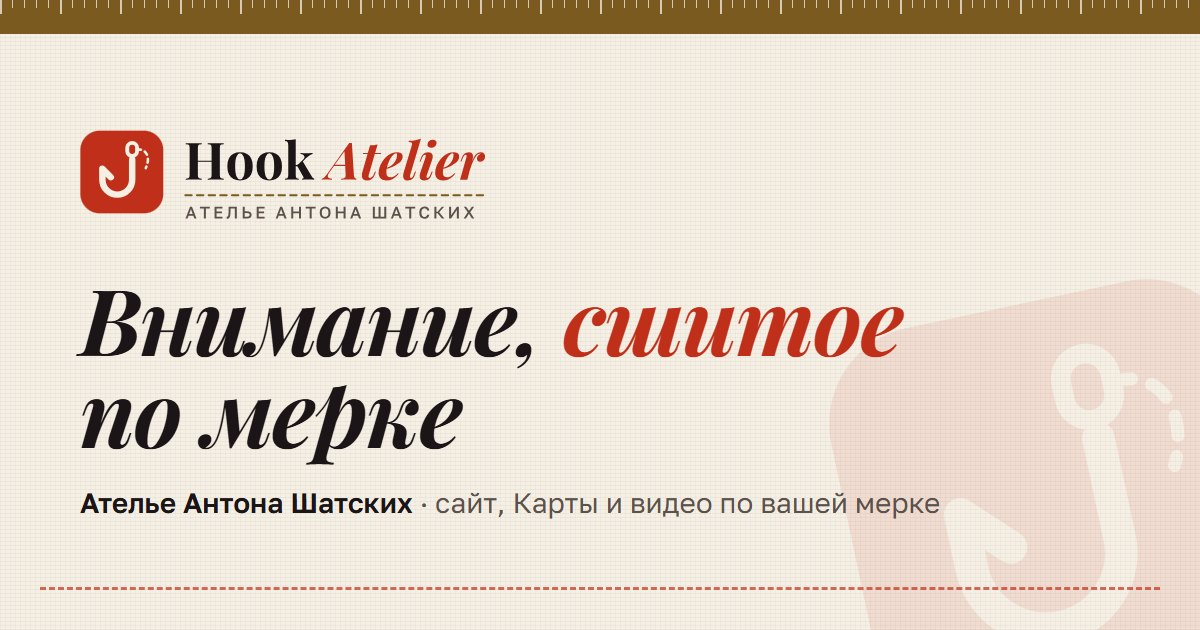
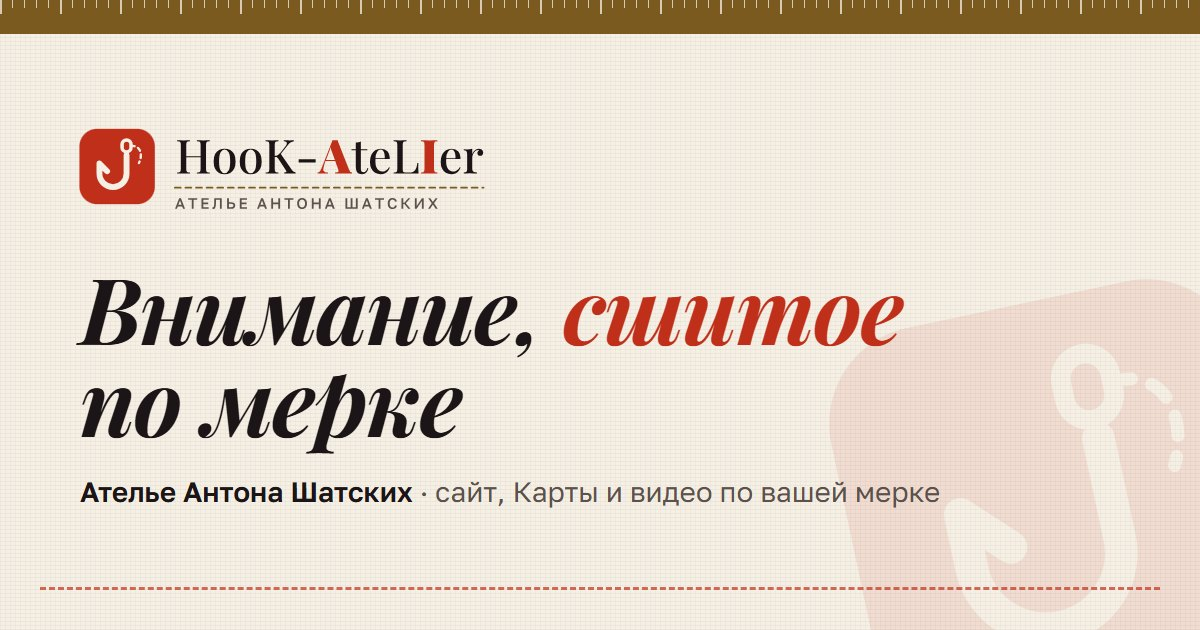
feat: имя пишется HooK-AteLIer
Пользователь сменил написание бренда: заглавные H, K, A, L и I, буквы A и I
жирные и цвета киновари (знания в AI); L заглавная, чтобы I не путалась
со строчной l. Логотипы перегенерированы в кривых шрифтом Playfair Display
(500, A и I — 900), холст 365×96; обновлены брендбук, таплинк, og.jpg,
brand.json и тесты. Заодно адреса сайтов переведены на hook-atelier.github.io
после смены логина GitHub.

Changed region(s): [[0.0617, 0.4222, 0.7708, 0.573], [0.0617, 0.6032, 0.8017, 0.8143], [0.0617, 0.181, 0.4008, 0.3619]]

diff --git a/index.html b/index.html
@@ -3,14 +3,14 @@
 <head>
 <meta charset="utf-8">
 <meta name="viewport" content="width=device-width, initial-scale=1, viewport-fit=cover">
-<title>Hook Atelier — ателье Антона Шатских</title>
-<meta name="description" content="Hook Atelier — ателье Антона Шатских: сайт, Карты и видео по вашей мерке. Таплинки, лендинги, брендинг, рилсы. Цены от 2 400 ₽.">
+<title>HooK-AteLIer — ателье Антона Шатских</title>
+<meta name="description" content="HooK-AteLIer — ателье Антона Шатских: сайт, Карты и видео по вашей мерке. Таплинки, лендинги, брендинг, рилсы. Цены от 2 400 ₽.">
 <meta name="theme-color" content="#F5EFE4" media="(prefers-color-scheme: light)">
 <meta name="theme-color" content="#121012" media="(prefers-color-scheme: dark)">
 <meta property="og:type" content="website">
 <meta property="og:locale" content="ru_RU">
-<meta property="og:site_name" content="Hook Atelier">
-<meta property="og:title" content="Hook Atelier — ателье Антона Шатских">
+<meta property="og:site_name" content="HooK-AteLIer">
+<meta property="og:title" content="HooK-AteLIer — ателье Антона Шатских">
 <meta property="og:description" content="Внимание, сшитое по мерке: сайт, Карты и видео в одном стиле, под ключ и по фиксированной цене.">
 <meta property="og:image" content="assets/og.jpg">
 <meta property="og:image:width" content="1200">
@@ -230,6 +230,8 @@
     .rise, .portrait .ring circle, .status.live::before { animation: none; }
     .btn, .work .shot img { transition: none; }
   }
+  .wm { font-family: var(--f-display); font-weight: 500; }
+  .wm b { font-weight: 900; color: var(--c-accent); }
 </style>
 </head>
 <body>
@@ -241,17 +243,17 @@
     <div class="id-top rise d1">
       <div class="portrait">
         <svg class="ring" viewBox="0 0 132 132" aria-hidden="true"><circle cx="66" cy="66" r="63" fill="none" stroke="currentColor" stroke-width="1.5" stroke-dasharray="5 6"/></svg>
-        <img src="assets/logo-mark.svg" width="100" height="100" alt="Знак Hook Atelier — крючок-игла">
+        <img src="assets/logo-mark.svg" width="100" height="100" alt="Знак HooK-AteLIer — крючок-игла">
         <span class="portrait-note">здесь будет фото Антона</span>
       </div>
       <button class="theme-btn" type="button" id="themeBtn" aria-label="Переключить тему">Тема</button>
     </div>
 
     <div class="rise d2">
-      <h1 class="sr">Hook Atelier</h1>
-      <img class="logo logo-light" src="assets/logo-main.svg" width="332" height="96" alt="Hook Atelier">
-      <img class="logo logo-dark" src="assets/logo-mono.svg" width="332" height="96" alt="Hook Atelier">
-      <p class="formula"><b>Hook Atelier — ателье Антона Шатских</b> <span class="say-it">· «Хук Ателье»</span></p>
+      <h1 class="sr">HooK-AteLIer</h1>
+      <img class="logo logo-light" src="assets/logo-main.svg" width="365" height="96" alt="HooK-AteLIer">
+      <img class="logo logo-dark" src="assets/logo-mono.svg" width="365" height="96" alt="HooK-AteLIer">
+      <p class="formula"><b><span class="wm">HooK-<b>A</b>teL<b>I</b>er</span> — ателье Антона Шатских</b> <span class="say-it">· «Хук Ателье»</span></p>
     </div>
 
     <p class="tagline rise d3">Внимание, <em>сшитое</em> по&nbsp;мерке</p>
@@ -346,7 +348,7 @@
           <div class="body">
             <h3>MensFire</h3>
             <p>Барбершоп, Самара</p>
-            <a class="go" href="https://shatskihton-boop.github.io/mensfire/" target="_blank" rel="noopener">Открыть сайт ↗</a>
+            <a class="go" href="https://hook-atelier.github.io/mensfire/" target="_blank" rel="noopener">Открыть сайт ↗</a>
           </div>
         </article>
 
@@ -356,7 +358,7 @@
           <div class="body">
             <h3>«НА УРОВНЕ»</h3>
             <p>Ремонт под ключ и&nbsp;корпусная мебель, Тюмень и&nbsp;Нижневартовск</p>
-            <a class="go" href="https://shatskihton-boop.github.io/vroven-site/" target="_blank" rel="noopener">Открыть сайт ↗</a>
+            <a class="go" href="https://hook-atelier.github.io/vroven-site/" target="_blank" rel="noopener">Открыть сайт ↗</a>
           </div>
         </article>
 
@@ -402,7 +404,7 @@
 </div>
 
 <footer>
-  <span>Hook Atelier — ателье Антона Шатских</span>
+  <span><span class="wm">HooK-<b>A</b>teL<b>I</b>er</span> — ателье Антона Шатских</span>
   <span>Сайт, Карты и&nbsp;видео по&nbsp;вашей мерке · 2026</span>
 </footer>
 

diff --git a/assets/tokens.css b/assets/tokens.css
@@ -1,4 +1,4 @@
-/* Hook Atelier — токены бренда. Источник правды: brand/brand.json.
+/* HooK-AteLIer — токены бренда. Источник правды: brand/brand.json.
    Шрифты подключаются на странице:
    https://fonts.googleapis.com/css2?family=Golos+Text:wght@400;500;600&family=Playfair+Display:ital,wght@0,500;0,700;0,900;1,500;1,700&display=swap */
 
